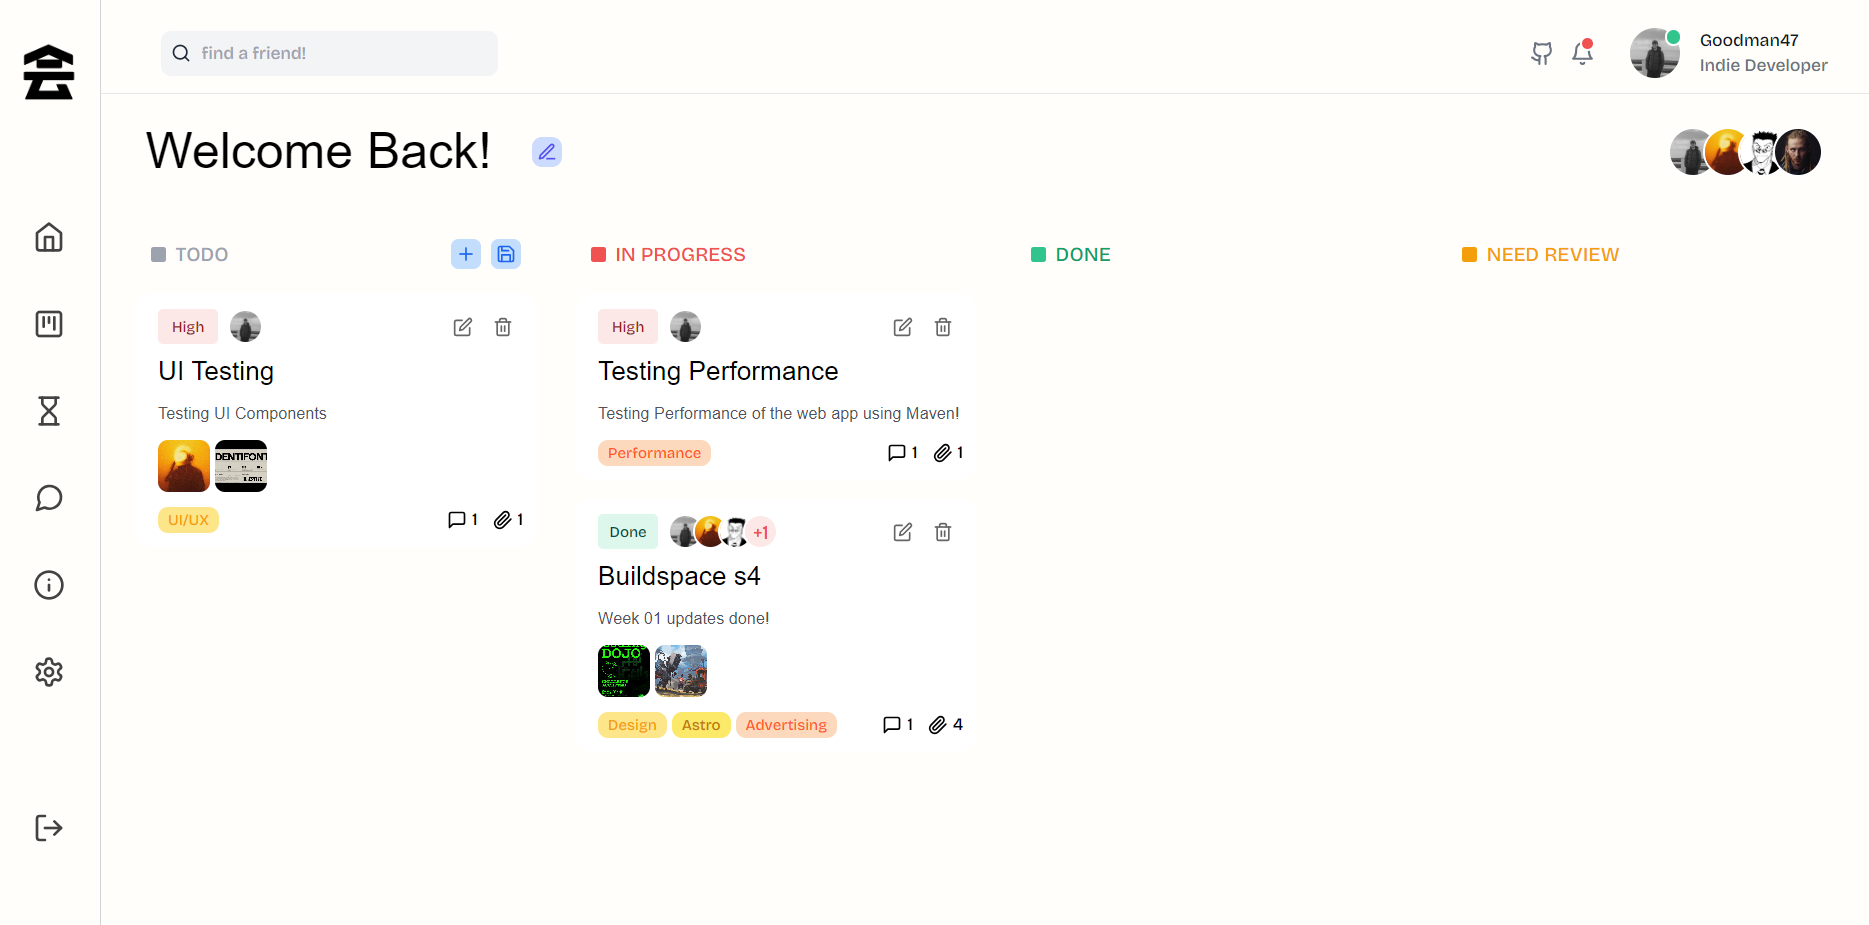
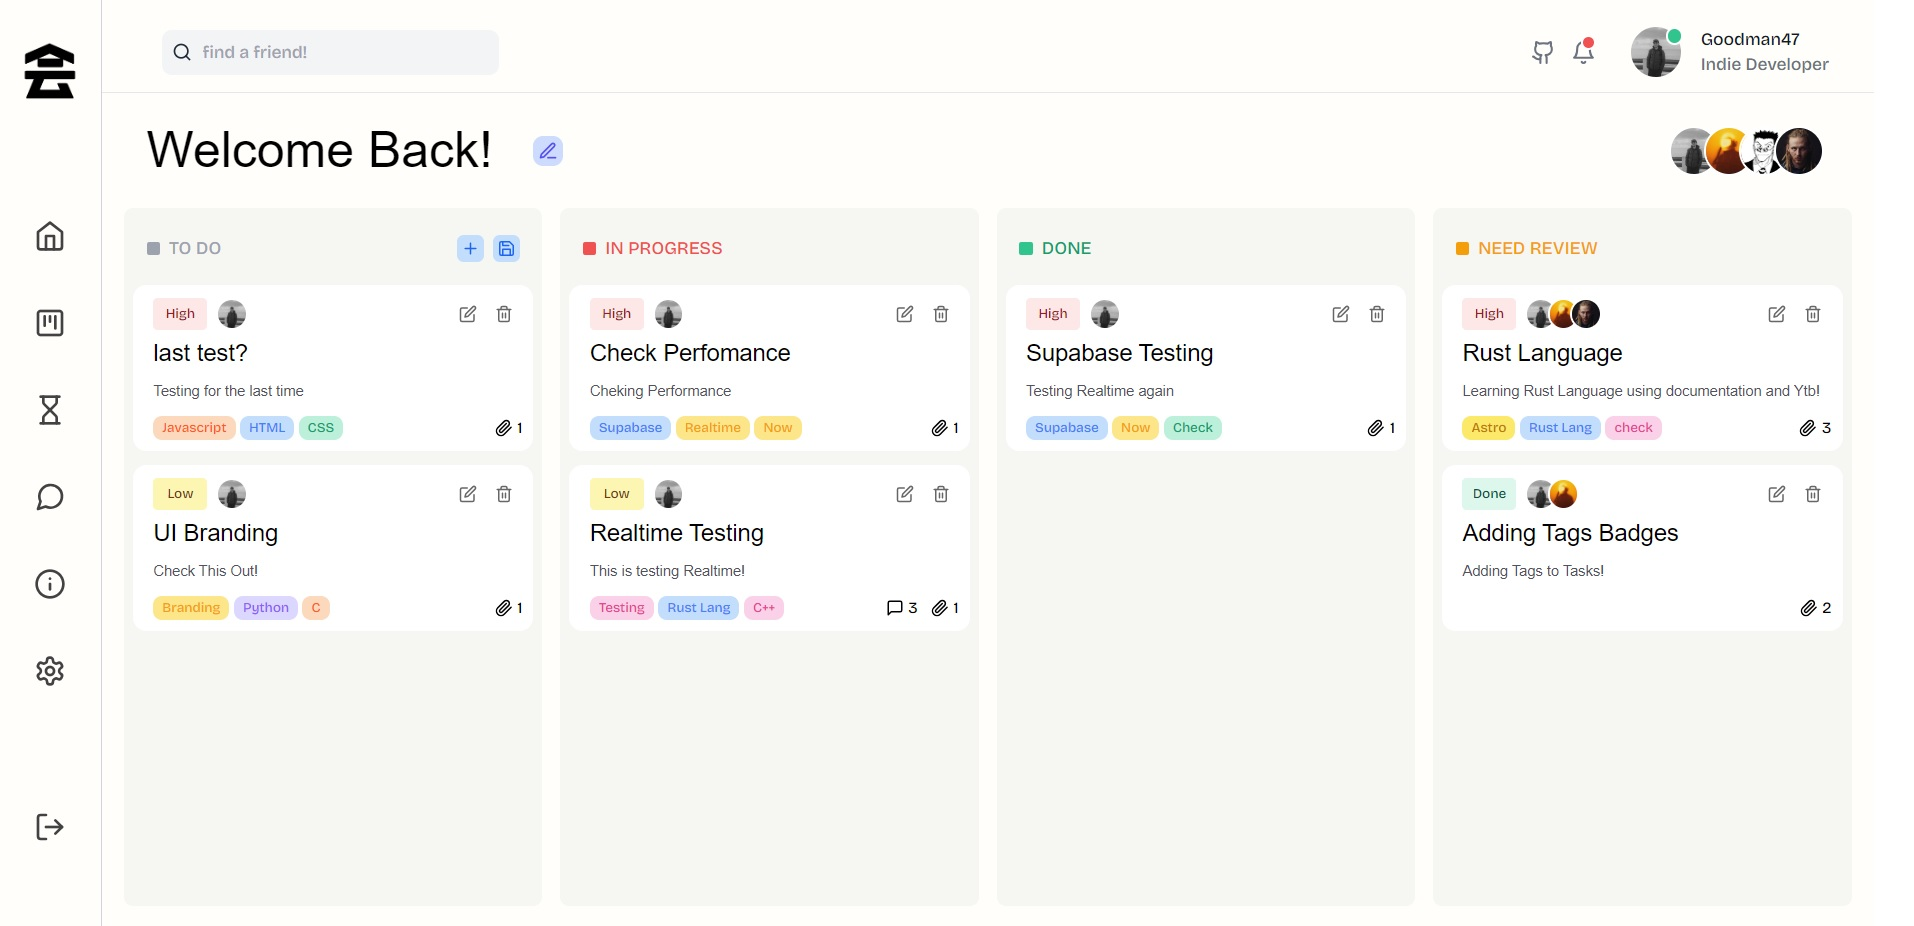
Update

diff --git a/shushu/src/components/Kanban.jsx b/shushu/src/components/Kanban.jsx
@@ -14,7 +14,6 @@ import { SortableContext, arrayMove } from "@dnd-kit/sortable";
 import { createPortal } from "react-dom";
 import ColumnContainer from "./ColumnContainer";
 import TaskCard from "./TaskCard";
-import { Avatar } from "antd";
 
 const defaultColumns = [
   { id: "todo", title: "TO DO" },
@@ -52,35 +51,6 @@ export function KanbanBoard() {
     checkAvatar();
   }, [user?.id]);
 
-  useEffect(() => {
-    let subscription;
-
-    if (user?.id) {
-      getTasksForUser(user.id);
-
-      subscription = supabase
-        .channel("schema-db-changes")
-        .on(
-          "postgres_changes",
-          {
-            event: "*",
-            schema: "public",
-          },
-          (payload) => {
-            getTasksForUser(user.id);
-          }
-        )
-        .subscribe();
-    }
-
-    // Clean up the subscription when the component unmounts or user.id changes
-    return () => {
-      if (subscription) {
-        subscription.unsubscribe();
-      }
-    };
-  }, [user?.id]);
-
   const getTasksForUser = async () => {
     const userId = user?.id;
     try {
@@ -100,31 +70,37 @@ export function KanbanBoard() {
   };
 
   useEffect(() => {
-    const fetchData = async () => {
-      const newTasks = await Promise.all(
-        tasksUser.map(async (task) => {
-          const comments = await retrieveComments(task.id);
-          const avatars = await fetchAvatars(task.assignee);
+    if (user?.id) {
+      getTasksForUser(user.id);
+    }
+  }, [user?.id]);
 
-          return {
-            id: task.id,
-            columnId: task.status,
-            content: task.description,
-            title: task.title,
-            priority: task.priority,
-            dueDate: task.due_date,
-            images: task.images,
-            assignee: task.assignee,
-            tags: task.tags,
-            Comments: comments,
-            assigneeAvatars: avatars,
-          };
-        })
-      );
+  const fetchData = async () => {
+    const newTasks = await Promise.all(
+      tasksUser.map(async (task) => {
+        const comments = await retrieveComments(task.id);
+        const avatars = await fetchAvatars(task.assignee);
 
-      setTasks(newTasks);
-    };
+        return {
+          id: task.id,
+          columnId: task.status,
+          content: task.description,
+          title: task.title,
+          priority: task.priority,
+          dueDate: task.due_date,
+          images: task.images,
+          assignee: task.assignee,
+          tags: task.tags,
+          Comments: comments,
+          assigneeAvatars: avatars,
+        };
+      })
+    );
 
+    setTasks(newTasks);
+  };
+
+  useEffect(() => {
     fetchData();
   }, [tasksUser]);
 
@@ -295,6 +271,22 @@ export function KanbanBoard() {
       return arrayMove(tasks, activeIndex, overIndex);
     });
   }
+
+  const channelA = supabase
+    .channel("schema-db-changes")
+    .on(
+      "postgres_changes",
+      {
+        event: "*",
+        schema: "public",
+      },
+      (payload) => {
+        console.log(payload);
+        getTasksForUser(user?.id);
+        fetchData();
+      }
+    )
+    .subscribe();
 
   return (
     <div>

diff --git a/shushu/src/components/TaskCard.jsx b/shushu/src/components/TaskCard.jsx
@@ -147,10 +147,10 @@ function TaskCard(props) {
       const oldTags = existingData.tags || [];
 
       // Create an updatedTags array by adding the new tag if it's not null
-      const updatedTags =
-        newTag !== null && newTag?.length !== 0
-          ? [...oldTags, newTag]
-          : oldTags;
+      let updatedTags = [...oldTags];
+      if (newTag !== null && newTag?.length > 0) {
+        updatedTags = [...oldTags, newTag];
+      }
 
       // Update the task in the database with the modified data
       const { data: updateData, error: updateError } = await supabase
@@ -248,9 +248,7 @@ function TaskCard(props) {
         console.error("Error removing image:", error.message);
         return;
       }
-
       console.log("Image removed successfully!");
-      // You might want to refresh your component's data after removing the image
     } catch (error) {
       console.error("Error removing image:", error);
     }
@@ -267,34 +265,12 @@ function TaskCard(props) {
         console.error("Error retrieving images:", error);
         return;
       }
-
-      // Update the images array in your task state
       const updatedTask = { ...props.task, images: data[0].images };
-      // Update the task in the parent component's state or context
-      // Example: updateTask(updatedTask);
-
       setImagesInsideModal(updatedTask.images);
     } catch (error) {
       console.error("Error retrieving images:", error);
     }
   };
-
-  const channelB = supabase
-    .channel("schema-db-changes")
-    .on(
-      "postgres_changes",
-      {
-        event: "*",
-        schema: "public",
-      },
-      (payload) => {
-        console.log(payload);
-        
-        retrieveComments();
-        retrieveImages();
-      }
-    )
-    .subscribe();
 
   const handleInputChange = (e) => {
     setTitle(e.target.value);
@@ -674,7 +650,6 @@ function TaskCard(props) {
               <input
                 className="text-[14px] h-[3rem] p-5 text-[#202020] bg-transparent resize-none focus:outline-none focus:border-transparent focus:ring-0 outline-none border-transparent ring-0"
                 autoFocus
-                // value={tag}
                 placeholder="Add tags to your tasks"
                 onChange={handletags}
               />
@@ -712,6 +687,13 @@ function TaskCard(props) {
                 className="flex ml-auto m-2 px-3 py-1 text-[14px] rounded bg-blue-500 text-white hover:bg-blue-600"
               >
                 Save changes
+              </button>
+            ) : textAreaType === "hashtags" ? (
+              <button
+                onClick={saveChanges}
+                className="flex ml-auto m-2 px-3 py-1 text-[14px] rounded bg-blue-500 text-white hover:bg-blue-600"
+              >
+                Save Tags
               </button>
             ) : null}
           </div>
